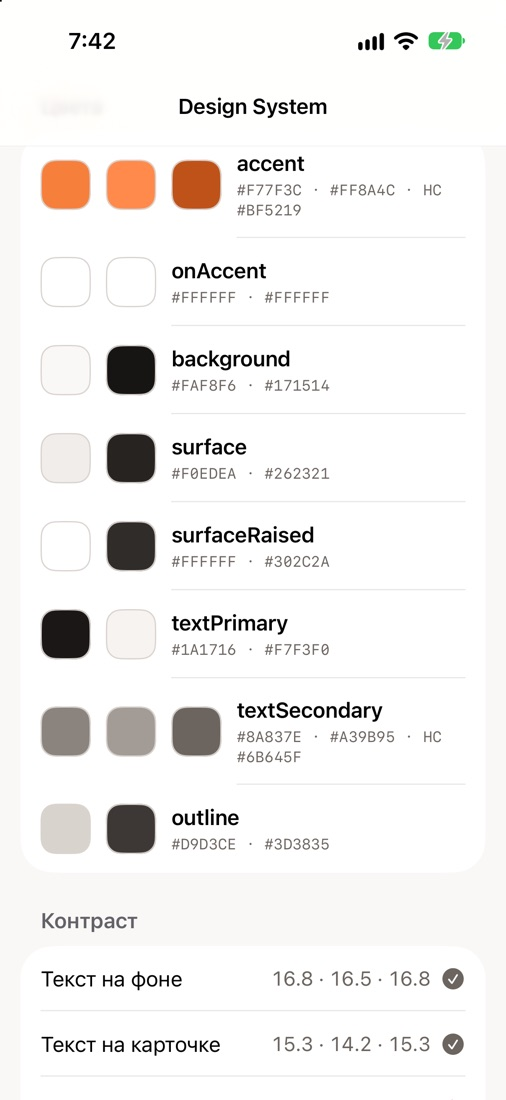
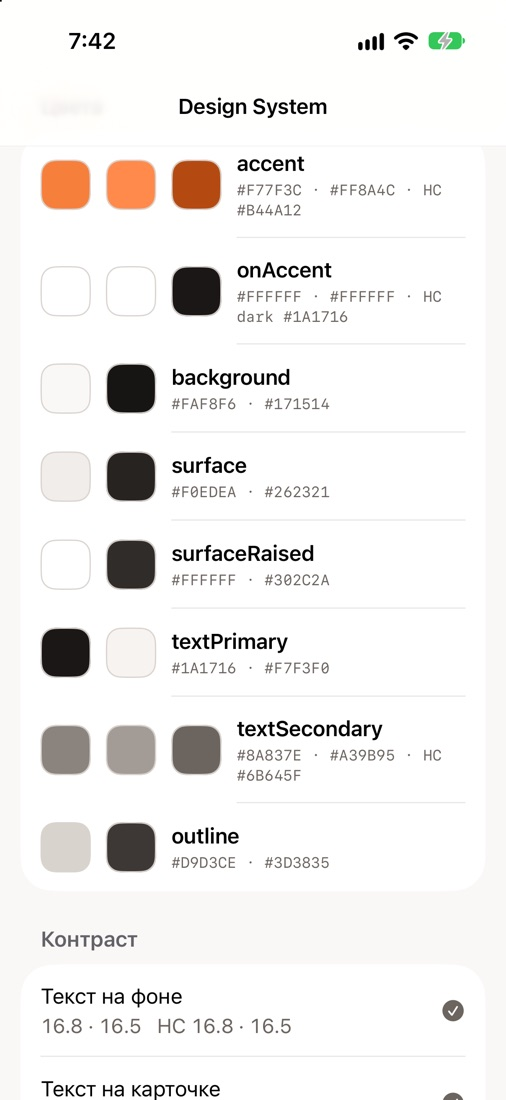
Fix Increase Contrast accent for dark theme and accent copies

diff --git a/ExercisesTracker/Debug/Gallery/GalleryColorRows.swift b/ExercisesTracker/Debug/Gallery/GalleryColorRows.swift
@@ -2,7 +2,7 @@
     import DesignSystem
     import SwiftUI
 
-    /// Token name, its light and dark swatches and hex values; a third swatch when Increase Contrast differs.
+    /// Token name, its light and dark swatches and hex values, plus a swatch per Increase Contrast value.
     struct ColorTokenRow: View {
         let token: ColorToken
 
@@ -12,6 +12,9 @@
                 Swatch(token: token, scheme: .dark)
                 if token.lightIncreasedContrast != nil {
                     Swatch(token: token, scheme: .light, contrast: .increased)
+                }
+                if token.darkIncreasedContrast != nil {
+                    Swatch(token: token, scheme: .dark, contrast: .increased)
                 }
                 VStack(alignment: .leading, spacing: Spacing.xxSmall) {
                     Text(token.name)
@@ -27,6 +30,9 @@
             var parts = [token.light, token.dark].map(\.hexString)
             if let increased = token.lightIncreasedContrast {
                 parts.append("HC \(increased.hexString)")
+            }
+            if let increased = token.darkIncreasedContrast {
+                parts.append("HC dark \(increased.hexString)")
             }
             return parts.joined(separator: " · ")
         }
@@ -62,11 +68,16 @@
             title
         }
 
-        func ratio(_ scheme: ColorScheme, _ contrast: ColorSchemeContrast = .standard) -> Double {
-            Contrast.ratio(
-                foreground.hex(for: scheme, contrast: contrast),
-                background.hex(for: scheme, contrast: contrast)
-            )
+        /// Light, dark, then the same two with Increase Contrast.
+        var ratios: [Double] {
+            [ColorSchemeContrast.standard, .increased].flatMap { contrast in
+                [ColorScheme.light, .dark].map { scheme in
+                    Contrast.ratio(
+                        foreground.hex(for: scheme, contrast: contrast),
+                        background.hex(for: scheme, contrast: contrast)
+                    )
+                }
+            }
         }
 
         static let all = [
@@ -83,7 +94,7 @@
                 minimum: Contrast.text
             ),
             ContrastPair(
-                title: "Белый на акценте", foreground: Palette.onAccent, background: Palette.accent,
+                title: "Текст на акценте", foreground: Palette.onAccent, background: Palette.accent,
                 minimum: Contrast.large
             ),
             ContrastPair(
@@ -94,6 +105,14 @@
                 title: "Акцент на фоне", foreground: Palette.accent, background: Palette.background,
                 minimum: Contrast.large
             ),
+            ContrastPair(
+                title: "Акцент на карточке", foreground: Palette.accent, background: Palette.surface,
+                minimum: Contrast.large
+            ),
+            ContrastPair(
+                title: "Акцент на белой карточке", foreground: Palette.accent, background: Palette.surfaceRaised,
+                minimum: Contrast.large
+            ),
         ]
     }
 
@@ -102,28 +121,27 @@
 
         var body: some View {
             HStack {
-                Text(pair.title)
+                VStack(alignment: .leading, spacing: Spacing.xxSmall) {
+                    Text(pair.title)
+                    Text(values)
+                        .font(.callout.monospacedDigit())
+                        .foregroundStyle(Palette.textSecondary)
+                }
                 Spacer()
-                Text(values)
-                    .font(.callout.monospacedDigit())
-                    .foregroundStyle(Palette.textSecondary)
                 Image(systemName: passes ? "checkmark.circle.fill" : "exclamationmark.triangle.fill")
                     .foregroundStyle(passes ? Palette.textSecondary : Palette.accent)
                     .accessibilityLabel(passes ? "Проходит" : "Ниже минимума")
             }
         }
 
-        private var ratios: [Double] {
-            [pair.ratio(.light), pair.ratio(.dark), pair.ratio(.light, .increased)]
-        }
-
-        /// Warns when any of the three appearances is below the minimum.
+        /// Warns when any of the four appearances is below the minimum.
         private var passes: Bool {
-            ratios.allSatisfy { $0 >= pair.minimum }
+            pair.ratios.allSatisfy { $0 >= pair.minimum }
         }
 
         private var values: String {
-            ratios.map { $0.formatted(.number.precision(.fractionLength(1))) }.joined(separator: " · ")
+            let formatted = pair.ratios.map { $0.formatted(.number.precision(.fractionLength(1))) }
+            return "\(formatted[0]) · \(formatted[1])   HC \(formatted[2]) · \(formatted[3])"
         }
     }
 

diff --git a/DesignSystemTests/Tokens/PaletteTests.swift b/DesignSystemTests/Tokens/PaletteTests.swift
@@ -7,8 +7,12 @@ struct PaletteTests {
     /// `nonisolated`: `@Test(arguments:)` reads it outside the main actor.
     nonisolated private static let schemes: [ColorScheme] = [.light, .dark]
 
-    private func ratio(_ foreground: ColorToken, on background: ColorToken, _ scheme: ColorScheme,
-                       _ contrast: ColorSchemeContrast = .standard) -> Double {
+    private func ratio(
+        _ foreground: ColorToken,
+        on background: ColorToken,
+        _ scheme: ColorScheme,
+        _ contrast: ColorSchemeContrast = .standard
+    ) -> Double {
         Contrast.ratio(
             foreground.hex(for: scheme, contrast: contrast),
             background.hex(for: scheme, contrast: contrast)
@@ -27,6 +31,14 @@ struct PaletteTests {
         #expect(ratio(Palette.onAccent, on: Palette.accent, scheme, .increased) >= Contrast.text)
     }
 
+    /// The accent stays readable as text on every surface it can sit on, so it may also color small labels.
+    @Test(arguments: schemes)
+    func increasedContrastMakesAccentReadableOnSurfaces(scheme: ColorScheme) {
+        for surface in [Palette.background, Palette.surface, Palette.surfaceRaised] {
+            #expect(ratio(Palette.accent, on: surface, scheme, .increased) >= Contrast.text, "\(surface.name)")
+        }
+    }
+
     @Test(arguments: schemes)
     func increasedContrastMakesSecondaryTextReadable(scheme: ColorScheme) {
         #expect(ratio(Palette.textSecondary, on: Palette.surface, scheme, .increased) >= Contrast.text)
@@ -43,14 +55,25 @@ struct PaletteTests {
     }
 
     @Test func routinePaletteHasEightDistinctColors() {
-        let values = RoutineTint.allCases.map { $0.token.light }
+        let values = RoutineTint.allCases.map(\.token.light)
         #expect(values.count == 8)
         #expect(Set(values).count == values.count)
     }
 
-    @Test func orangeRoutineMatchesAccent() {
-        let orange = RoutineTint.orange.token
-        #expect(orange.light == Palette.accent.light)
-        #expect(orange.dark == Palette.accent.dark)
+    /// Raw values are persisted with routines; renaming a case would lose the user's choice.
+    @Test func routineTintRawValuesAreStable() {
+        #expect(RoutineTint.allCases.map(\.rawValue) == [
+            "orange", "coral", "amber", "terracotta", "pink", "plum", "sage", "sand",
+        ])
+    }
+
+    @Test(arguments: [RoutineTint.orange.token, DayPartTint.morning.icon])
+    func accentCopiesFollowAccentEverywhere(token: ColorToken) {
+        for scheme in Self.schemes {
+            for contrast in [ColorSchemeContrast.standard, .increased] {
+                let expected = Palette.accent.hex(for: scheme, contrast: contrast)
+                #expect(token.hex(for: scheme, contrast: contrast) == expected)
+            }
+        }
     }
 }

diff --git a/DesignSystem/Tokens/Palette.swift b/DesignSystem/Tokens/Palette.swift
@@ -2,15 +2,22 @@ import SwiftUI
 
 /// App colors. Values and usage are documented in docs/DESIGN.md → Токены → Цвета.
 nonisolated public enum Palette {
-    /// Action and completion. White text on it is 2.6:1, so Increase Contrast darkens it to 4.7:1.
+    /// Action and completion. White text on it is 2.6:1 (light) and 2.3:1 (dark).
+    /// Increase Contrast: in light it darkens to 5.3:1 for white text and 4.6:1 on cards;
+    /// in dark it keeps its color, which already stands out on dark surfaces, and `onAccent` turns dark instead.
     public static let accent = ColorToken(
         "accent",
         light: 0xF77F3C,
         dark: 0xFF8A4C,
-        lightIncreasedContrast: 0xBF5219,
-        darkIncreasedContrast: 0xBF5219
+        lightIncreasedContrast: 0xB44A12
     )
-    public static let onAccent = ColorToken("onAccent", light: 0xFFFFFF, dark: 0xFFFFFF)
+    /// Text and icons on `accent`. Dark under Increase Contrast in dark appearance: 7.6:1.
+    public static let onAccent = ColorToken(
+        "onAccent",
+        light: 0xFFFFFF,
+        dark: 0xFFFFFF,
+        darkIncreasedContrast: 0x1A1716
+    )
     public static let background = ColorToken("background", light: 0xFAF8F6, dark: 0x171514)
     public static let surface = ColorToken("surface", light: 0xF0EDEA, dark: 0x262321)
     public static let surfaceRaised = ColorToken("surfaceRaised", light: 0xFFFFFF, dark: 0x302C2A)
@@ -39,7 +46,7 @@ nonisolated public struct DayPartTint: Hashable, Sendable {
     public static let morning = DayPartTint(
         name: "morning",
         background: ColorToken("morning.background", light: 0xFFE6D8, dark: 0x3D2A1F),
-        icon: ColorToken("morning.icon", light: 0xF77F3C, dark: 0xFF8A4C)
+        icon: Palette.accent.named("morning.icon")
     )
     public static let day = DayPartTint(
         name: "day",
@@ -68,7 +75,7 @@ nonisolated public enum RoutineTint: String, CaseIterable, Sendable {
 
     public var token: ColorToken {
         switch self {
-        case .orange: ColorToken("orange", light: Palette.accent.light, dark: Palette.accent.dark)
+        case .orange: Palette.accent.named("orange")
         case .coral: ColorToken("coral", light: 0xEE6A5A, dark: 0xF47E6F)
         case .amber: ColorToken("amber", light: 0xE09A2D, dark: 0xEBAE4A)
         case .terracotta: ColorToken("terracotta", light: 0xC2603C, dark: 0xD97A55)

diff --git a/DesignSystemTests/Tokens/ColorTokenTests.swift b/DesignSystemTests/Tokens/ColorTokenTests.swift
@@ -27,4 +27,21 @@ struct ColorTokenTests {
         #expect(contrasted.hex(for: .dark, contrast: .increased) == 0x444444)
         #expect(contrasted.hex(for: .light) == 0x111111)
     }
+
+    @Test func resolvesFromEnvironmentColorScheme() {
+        var environment = EnvironmentValues()
+        environment.colorScheme = .dark
+        #expect(contrasted.resolve(in: environment) == contrasted.color(for: .dark))
+        environment.colorScheme = .light
+        #expect(contrasted.resolve(in: environment) == contrasted.color(for: .light))
+    }
+
+    @Test func namedCopyKeepsEveryValue() {
+        let copy = contrasted.named("copy")
+        #expect(copy.name == "copy")
+        #expect(copy.light == contrasted.light)
+        #expect(copy.dark == contrasted.dark)
+        #expect(copy.lightIncreasedContrast == contrasted.lightIncreasedContrast)
+        #expect(copy.darkIncreasedContrast == contrasted.darkIncreasedContrast)
+    }
 }

diff --git a/DesignSystem/Tokens/ColorToken.swift b/DesignSystem/Tokens/ColorToken.swift
@@ -30,6 +30,17 @@ nonisolated public struct ColorToken: ShapeStyle, Hashable, Identifiable {
         self.darkIncreasedContrast = darkIncreasedContrast
     }
 
+    /// The same values under another name, for tokens defined as "equal to" another one.
+    public func named(_ name: String) -> ColorToken {
+        ColorToken(
+            name,
+            light: light,
+            dark: dark,
+            lightIncreasedContrast: lightIncreasedContrast,
+            darkIncreasedContrast: darkIncreasedContrast
+        )
+    }
+
     /// The 0xRRGGBB value used for a given appearance.
     public func hex(for scheme: ColorScheme, contrast: ColorSchemeContrast = .standard) -> UInt32 {
         switch (scheme, contrast) {

diff --git a/DesignSystem/Tokens/Layout.swift b/DesignSystem/Tokens/Layout.swift
@@ -51,15 +51,15 @@ nonisolated public enum Opacity {
 }
 
 public extension Shape where Self == RoundedRectangle {
-    static var card: RoundedRectangle {
+    nonisolated static var card: RoundedRectangle {
         RoundedRectangle(cornerRadius: Radius.card, style: .continuous)
     }
 
-    static var row: RoundedRectangle {
+    nonisolated static var row: RoundedRectangle {
         RoundedRectangle(cornerRadius: Radius.row, style: .continuous)
     }
 
-    static var small: RoundedRectangle {
+    nonisolated static var small: RoundedRectangle {
         RoundedRectangle(cornerRadius: Radius.small, style: .continuous)
     }
 }

diff --git a/ExercisesTracker/Debug/Gallery/DesignSystemGallery.swift b/ExercisesTracker/Debug/Gallery/DesignSystemGallery.swift
@@ -23,7 +23,7 @@
                     } header: {
                         Text("Контраст")
                     } footer: {
-                        Text("Светлая · тёмная · повышенный контраст. Минимум: 4,5 — текст, 3 — крупное и значки.")
+                        Text("Светлая · тёмная, затем с повышенным контрастом (HC). Минимум: 4,5 — текст, 3 — значки.")
                     }
                     .id("contrast")
                     Section("Части дня") {

diff --git a/docs/DESIGN.md b/docs/DESIGN.md
@@ -40,8 +40,8 @@
 
 | Токен | Светлая | Тёмная | Повышенный контраст | Где |
 |---|---|---|---|---|
-| `accent` | `#F77F3C` | `#FF8A4C` | `#BF5219` в обеих темах | действие, выполнено, выделенная карточка |
-| `onAccent` | `#FFFFFF` | `#FFFFFF` | — | текст и иконки на акценте |
+| `accent` | `#F77F3C` | `#FF8A4C` | `#B44A12` в светлой | действие, выполнено, выделенная карточка |
+| `onAccent` | `#FFFFFF` | `#FFFFFF` | `#1A1716` в тёмной | текст и иконки на акценте |
 | `background` | `#FAF8F6` | `#171514` | — | фон экрана |
 | `surface` | `#F0EDEA` | `#262321` | — | карточки, строки |
 | `surfaceRaised` | `#FFFFFF` | `#302C2A` | — | выбранный сегмент, поля ввода |
@@ -51,7 +51,15 @@
 
 Неотмеченная кнопка «по плану» рисует галочку цветом `textSecondary` (контраст с `surfaceRaised` 3,7:1 в светлой и 5:1 в тёмной теме): `outline` почти не виден.
 
-**Контраст на акценте — решено после 0.1: оставляем как у Gentler.** Белый текст на `accent` даёт 2,6:1 в светлой и 2,3:1 в тёмной теме, оранжевые значки и прогресс на светлом фоне — 2,5:1; это ниже минимумов WCAG (4,5:1 для текста, 3:1 для крупного и значков). Сравнивали с более тёмным акцентом `#E8682A` и с тёмным текстом на оранжевом — выбрали исходный вид. Читаемость обеспечивает настройка iOS «Повышенный контраст»: акцент темнеет до `#BF5219` (белый на нём — 4,7:1, он на фоне — 4,5:1), а `textSecondary` в светлой теме — до `#6B645F` (5:1 на карточке). Гарантии контраста проверяются тестами в `DesignSystemTests/Tokens/PaletteTests.swift`.
+**Контраст на акценте — решено после 0.1: оставляем как у Gentler.** Белый текст на `accent` даёт 2,6:1 в светлой и 2,3:1 в тёмной теме, оранжевые значки и прогресс на светлом фоне — 2,5:1; это ниже минимумов WCAG (4,5:1 для текста, 3:1 для крупного и значков). Сравнивали с более тёмным акцентом `#E8682A` и с тёмным текстом на оранжевом — выбрали исходный вид. Читаемость обеспечивает настройка iOS «Повышенный контраст»:
+
+- в светлой теме акцент темнеет до `#B44A12`: белый на нём — 5,3:1, сам акцент на фоне — 5,1:1, на карточке — 4,6:1;
+- в тёмной теме акцент не меняется (на тёмных поверхностях он и так 5,9–7,8:1), а текст на нём становится тёмным `#1A1716` — 7,6:1. Затемнять акцент здесь нельзя: он теряется на тёмных карточках;
+- `textSecondary` в светлой теме темнеет до `#6B645F` — 5:1 на карточке.
+
+С повышенным контрастом акцент проходит минимум для текста (4,5:1) на всех поверхностях, поэтому им можно красить и мелкие подписи. Гарантии проверяются тестами в `DesignSystemTests/Tokens/PaletteTests.swift`.
+
+Иконки рутин и частей дня цветами своих палитр — декоративные: рядом всегда есть название, поэтому минимум 3:1 к ним не применяется (на светлом фоне у кораллового, янтарного и песочного 2,3–2,9:1). Оранжевый цвет рутины и иконка утра — копии `accent` и меняются вместе с ним, включая повышенный контраст.
 
 **Части дня** — фон и цвет иконки. В варианте A на «Сегодня» капсулы нет; токены остаются для иконки части дня (заголовок, переключатель 2.4, виджет F7) — где именно, решается в 0.3.
 
@@ -83,6 +91,9 @@
 - Размеры (масштабируются с Dynamic Type через `@ScaledMetric`): круглая кнопка — 44, иконка рутины в круге — 40, миниатюра упражнения — 56 (радиус 12), минимальная высота плитки рутины — 132, полоса прогресса — 8.
 - Выполненное приглушается прозрачностью 0,6 (`Opacity.completed`). В строке шага кнопка-галочка остаётся яркой (её можно снять); плитка рутины приглушается целиком, вместе с галочкой-статусом.
 - Фон под цветной иконкой — её цвет с прозрачностью 0,16 (`Opacity.iconFill`); полупрозрачные заливки на акценте — белый с прозрачностью 0,22 (`Opacity.onAccentFill`).
+- Решить в 0.3 вместе с `RoutineCard` и `StepRow`: прозрачность вторичного текста и дорожки прогресса на акценте (в 0.1 были 0,85 и 0,25), одна ли прозрачность «выполнено» для плиток и строк, и как она ведёт себя с повышенным контрастом.
+
+`ColorToken` — это `ShapeStyle`, а не `Color` и не `View`. Он подходит для `.foregroundStyle`, `.background(_:in:)`, `.fill`, `.tint`; туда, где нужен `View` (например, `listRowBackground`), передавайте `Rectangle().fill(token)`. API, где нужен именно `Color` (тени, градиенты), добавим в 0.3, если понадобится.
 
 ### Типографика
 
